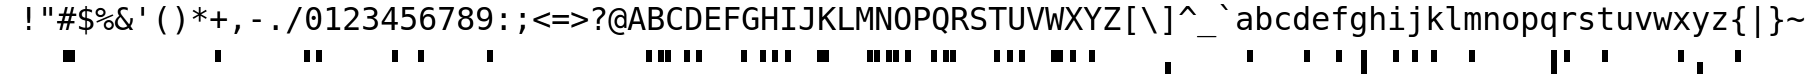
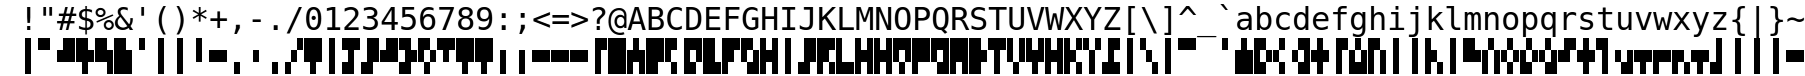
Tweak threshold for precomputed glyph nits
1. Use top and left margin when computing nits,
   to get rid of white at the top and left throughout all glyphs.
   In particular, the top margin of 4 pixels
   is the amount of white above the backtick, the tallest glyph.
2. Tweak nit threshold intensity.
   In particular, 83% is the smallest proportion
   for which the dot at the bottom of the exclamation mark
   will register as sufficiently dark for the bottom-middle bit.

Changed region(s): [[0.0, 0.5, 1.0, 0.9737]]

diff --git a/precompute_glyph_properties.m b/precompute_glyph_properties.m
@@ -46,7 +46,7 @@ glyphs_block_array = matrix_to_block_array (
 MIN_INTENSITY = 0;
 MAX_INTENSITY = 255;
 
-GLYPH_NIT_THRESHOLD = floor (0.5 * (MAX_INTENSITY - MIN_INTENSITY));
+GLYPH_NIT_THRESHOLD = floor (0.83 * (MAX_INTENSITY - MIN_INTENSITY));
 
 ## ----------------------------------------------------------------
 ## Compute properties [code point, average intensity]
@@ -58,9 +58,17 @@ for i = 1 : PRINTABLE_ASCII_TOTAL_NUMBER
   
   glyph_block = glyphs_block_array{i};
   
+  NIT_MARGIN_TOP = 4;
+  NIT_MARGIN_LEFT = 1;
+  glyph_block_for_nit = ...
+    glyph_block(
+      1 + NIT_MARGIN_TOP : end,
+      1 + NIT_MARGIN_LEFT : end
+    );
+  
   code_point = PRINTABLE_ASCII_CODE_POINT_FIRST + i - 1;
   average_intensity = matrix_to_average_intensity (glyph_block);
-  nit = matrix_to_nit (glyph_block, GLYPH_NIT_THRESHOLD);
+  nit = matrix_to_nit (glyph_block_for_nit, GLYPH_NIT_THRESHOLD);
   
   glyph_properties_table(i,:) = [code_point, average_intensity, nit];
   
